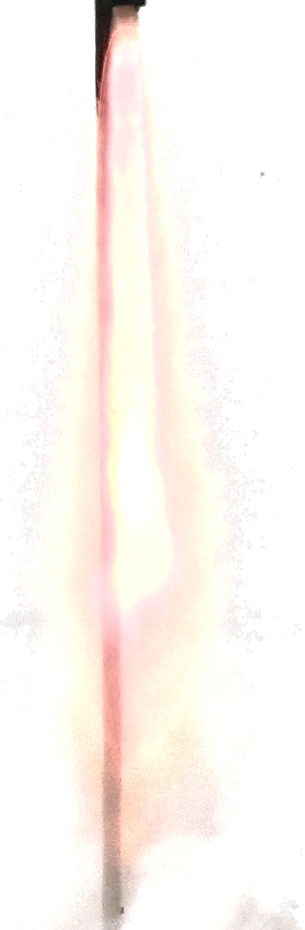
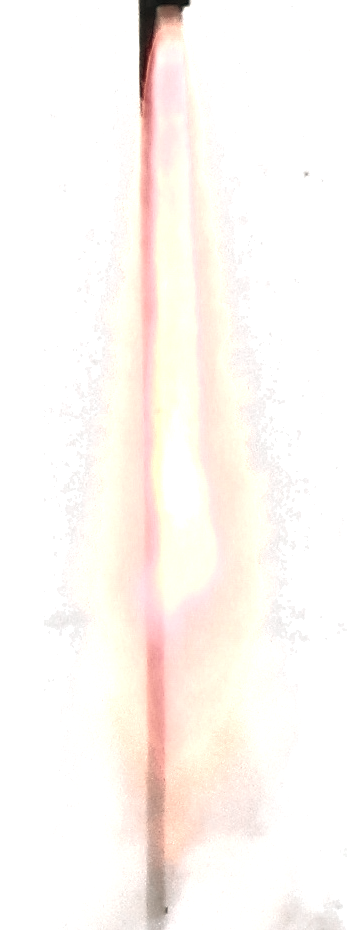
One heading, a centred exhaust, and no flash on load
Four small things, three of which were real bugs.

The course title appeared twice — once in the hero's final frame and again a
screen below at the top of the track. There is now one: the heading lives in
the hero, the launch lands on it, and the module list starts immediately under
it. The track's own intro and its top padding are gone, which also removes the
last stretch of empty scrolling before the modules.

The exhaust was visibly off the vehicle's axis. The airframe and the plume were
matted from different crops of the source photograph, so their centres of mass
sat 27px apart; drawn at the same pad position the fire hung to one side and the
liftoff read as smeared. Sprites are now recentred on their own alpha centroid
in the pipeline, so "image centre" means "vehicle axis" for all of them, and the
hero reads the airframe's width from the asset rather than a constant that
drifts whenever the matte changes.

The flash on load was the scene painting before it had been measured: the plate
at its natural 2560px and the airframe at 1295px tall, both in the top-left
corner, for one frame. The scene is now hidden until the first paint has run.

The readability scrim was painted over the wash-to-paper and never faded, which
left the finished white frame tinted grey. It now clears with the rest of the
dark-plate furniture.

Type and colour move closer to rocketrychallenge.org: body is Nunito Sans, the
[…]

diff --git a/components/hero/Hero.tsx b/components/hero/Hero.tsx
@@ -52,6 +52,7 @@ export function Hero() {
   const trailRef = useRef<HTMLDivElement>(null);
   const blurRef = useRef<SVGFEGaussianBlurElement>(null);
   const handoffRef = useRef<HTMLDivElement>(null);
+  const scrimRef = useRef<HTMLDivElement>(null);
 
   const navRef = useRef<HTMLElement>(null);
   const copyRef = useRef<HTMLDivElement>(null);
@@ -147,8 +148,14 @@ export function Hero() {
     if (rocket) {
       const h = L.rocketH * s.rocketScale;
       const y = L.padY - travelPx(s.travel) - h;
+      // Width from the asset itself: the sprite is centred on the vehicle's
+      // axis, so half its width is the offset that puts that axis on the pad.
+      const aspect =
+        rocket.naturalWidth && rocket.naturalHeight
+          ? rocket.naturalWidth / rocket.naturalHeight
+          : 0.136;
       rocket.style.height = `${h}px`;
-      rocket.style.transform = `translate3d(${(L.padX - (h * 0.128) / 2).toFixed(1)}px, ${y.toFixed(1)}px, 0)`;
+      rocket.style.transform = `translate3d(${(L.padX - (h * aspect) / 2).toFixed(1)}px, ${y.toFixed(1)}px, 0)`;
       rocket.style.opacity = String(s.rocketFade);
       // Y-only blur; the filter is only mounted while it is actually doing work
       rocket.style.filter = s.rocketBlur > 0.5 ? "url(#arc-vblur)" : "none";
@@ -166,6 +173,11 @@ export function Hero() {
     // --- brightening into the course ----------------------------------------
     if (gradeRef.current) {
       gradeRef.current.style.opacity = String(s.washout);
+    }
+    // The scrim exists to hold white type over a bright sky. It is painted over
+    // the wash, so leaving it up tinted the finished paper frame grey.
+    if (scrimRef.current) {
+      scrimRef.current.style.opacity = String(s.uiFade);
     }
     if (handoffRef.current) {
       handoffRef.current.style.opacity = String(s.handoff);
@@ -206,6 +218,13 @@ export function Hero() {
       tel.style.opacity = String((0.55 + 0.45 * Math.min(1, s.p * 6)) * s.uiFade);
       const armed = s.p >= 0.035 && s.p < 0.16;
       tel.dataset.armed = armed ? "true" : "false";
+    }
+
+    // First paint only happens once the layout is known; before that the plate
+    // would render at its natural 2560px and the airframe at 1295px tall, both
+    // pinned to the top-left corner, for a frame. That was the flash on load.
+    if (sectionRef.current && sectionRef.current.dataset.ready !== "true") {
+      sectionRef.current.dataset.ready = "true";
     }
 
     const ind = indicatorRef.current;
@@ -286,14 +305,14 @@ export function Hero() {
             clearing, so the launch never resolves to an empty screen. */}
         <div className="hero__handoff" ref={handoffRef}>
           <p className="hero__handoffEyebrow">02 / The course</p>
-          <p className="hero__handoffTitle">
+          <h2 className="hero__handoffTitle">
             Rocketry modules for students
             <br />
             new to rocketry.
-          </p>
+          </h2>
         </div>
         <div className="hero__trail" ref={trailRef} aria-hidden="true" />
-        <div className="hero__scrim" aria-hidden="true" />
+        <div className="hero__scrim" ref={scrimRef} aria-hidden="true" />
 
         <HeroNav ref={navRef} />
         <HeroCopy

diff --git a/app/hero.css b/app/hero.css
@@ -13,7 +13,12 @@
 /* -------------------------------------------------------------------- hero */
 .hero {
   position: relative;
-  height: 108vh; /* the scroll budget the launch is scrubbed across */
+  /*
+   * 28vh of scrub — roughly two turns of a wheel for the whole launch. Shorter
+   * than this (it was 8vh) and a single notch skips the entire sequence, which
+   * reads as a glitch rather than as speed.
+   */
+  height: 128vh;
 }
 
 .hero__pin {
@@ -28,6 +33,15 @@
   position: absolute;
   inset: 0;
   will-change: transform;
+  /* The plate and airframe are sized and placed in JavaScript. Until that has
+     run they would paint at their natural size in the top-left corner, which
+     is the flash that used to happen on load. */
+  opacity: 0;
+}
+
+.hero[data-ready="true"] .hero__scene {
+  opacity: 1;
+  transition: opacity 0.24s var(--ease-arc);
 }
 
 .hero__plate {
@@ -95,7 +109,7 @@
 .hero__handoff {
   position: absolute;
   left: 6.5vw;
-  top: 34vh;
+  top: 26vh;
   z-index: 5;
   opacity: 0;
   pointer-events: none;
@@ -393,7 +407,7 @@
 /* ------------------------------------------------------------ responsive */
 @media (max-width: 767px) {
   .hero {
-    height: 104vh;
+    height: 124vh;
   }
 
   .hero__copy {
@@ -516,7 +530,7 @@
   max-width: 46ch;
   font-size: 1rem;
   line-height: 1.6;
-  color: var(--color-sky-800);
+  color: var(--color-read);
 }
 
 .gate__actions {
@@ -602,7 +616,7 @@
 .track {
   position: relative;
   background: var(--color-arc-white);
-  padding: 13vh 6.5vw 10vh;
+  padding: 0 6.5vw 10vh;
 }
 
 .track__eyebrow {
@@ -630,11 +644,11 @@
   max-width: 56ch;
   font-size: 1.05rem;
   line-height: 1.6;
-  color: var(--color-sky-800);
+  color: var(--color-read);
 }
 
 .track__body {
-  margin-top: 7vh;
+  margin-top: 0;
 }
 
 /* --- the blow-up: retention, not the point --------------------------- */
@@ -650,7 +664,7 @@
   display: flex;
   align-items: center;
   gap: 36px;
-  padding: 26px 0 22px;
+  padding: 30px 0 22px;
   margin-bottom: 3vh;
   background: var(--color-arc-white);
   border-bottom: 1px solid var(--color-mist-500);
@@ -716,7 +730,7 @@
   margin: 3px 0 0;
   font-size: 0.88rem;
   line-height: 1.45;
-  color: var(--color-sky-800);
+  color: var(--color-read-dim);
 }
 
 /* --- the modules ------------------------------------------------------ */
@@ -802,7 +816,7 @@
   margin-top: 5px;
   font-size: 0.92rem;
   line-height: 1.5;
-  color: var(--color-sky-800);
+  color: var(--color-read-dim);
   max-width: 52ch;
 }
 

diff --git a/app/layout.tsx b/app/layout.tsx
@@ -1,5 +1,5 @@
 import type { Metadata, Viewport } from "next";
-import { Jost, Hanken_Grotesk, IBM_Plex_Mono } from "next/font/google";
+import { Jost, Nunito_Sans, IBM_Plex_Mono } from "next/font/google";
 import "./globals.css";
 // Imported here rather than @import-ed from globals.css so the dev server
 // watches it directly and hot-reloads edits.
@@ -8,8 +8,11 @@ import { PwaRegister } from "@/components/PwaRegister";
 import { AccountSync } from "@/components/account/AccountSync";
 
 /*
- * ARC sets headings in Futura PT and body in Museo Sans. Jost is an open Futura
- * revival; Hanken Grotesk covers Museo Sans. Plex Mono is instrumentation only.
+ * ARC sets headings in Futura PT and body in Museo Sans (Adobe Typekit).
+ * Jost is an open Futura revival. Nunito Sans is the closest open face to Museo
+ * Sans — same geometric-humanist build and low stroke contrast — and replaces
+ * Hanken Grotesk, which ran colder and narrower than the real thing.
+ * Plex Mono is instrumentation only; the brand has no mono.
  */
 const jost = Jost({
   subsets: ["latin"],
@@ -18,10 +21,10 @@ const jost = Jost({
   display: "swap",
 });
 
-const hanken = Hanken_Grotesk({
+const nunitoSans = Nunito_Sans({
   subsets: ["latin"],
-  weight: ["400", "500", "600", "700", "800"],
-  variable: "--font-hanken",
+  weight: ["400", "600", "700", "800"],
+  variable: "--font-museo",
   display: "swap",
 });
 
@@ -60,7 +63,7 @@ export default function RootLayout({
   return (
     <html
       lang="en"
-      className={`h-full ${jost.variable} ${hanken.variable} ${plexMono.variable}`}
+      className={`h-full ${jost.variable} ${nunitoSans.variable} ${plexMono.variable}`}
     >
       <body className="min-h-full flex flex-col">
         <PwaRegister />

diff --git a/components/course/ModuleTrack.tsx b/components/course/ModuleTrack.tsx
@@ -61,21 +61,11 @@ export function ModuleTrack() {
     return () => io.disconnect();
   }, []);
 
+  // The heading for this section lives in the hero's final frame (Hero.tsx,
+  // .hero__handoff) so the launch lands directly on it. Repeating it here
+  // showed the same title twice, a screen apart.
   return (
     <section className="track" id="course" aria-label="The course">
-      <div className="track__intro">
-        <p className="track__eyebrow">02 / The course</p>
-        <h2 className="track__title">
-          Rocketry modules for students
-          <br />
-          new to rocketry.
-        </h2>
-        <p className="track__lede">
-          Thirteen of them, from your first launch rail to a qualifying flight.
-          Read it, take the quiz, and finish another part of the rocket.
-        </p>
-      </div>
-
       <div className="track__body">
         {/* A blow-up, read left to right like an engineering drawing: nose at
             the left, fin can at the right, gaps where the joints are. Sticky,

diff --git a/app/globals.css b/app/globals.css
@@ -72,7 +72,7 @@
    * reason to use it here than brand-matching alone.
    */
   --font-heading: var(--font-jost), "Futura PT", Futura, Arial, sans-serif;
-  --font-body: var(--font-hanken), "Museo Sans", "Segoe UI", Arial, sans-serif;
+  --font-body: var(--font-museo), "Museo Sans", "Segoe UI", Arial, sans-serif;
   /* Instrumentation only. The brand has no mono; telemetry needs one. */
   --font-mono: var(--font-plex-mono), ui-monospace, Menlo, monospace;
 

diff --git a/scripts/mat_assets.py b/scripts/mat_assets.py
@@ -53,6 +53,32 @@ def sky_model(a):
     return sm[:H]
 
 
+def recentre(img):
+    """
+    Shift a sprite so its alpha centroid sits on the image's centre line.
+
+    The airframe and the plume were matted from different crops of the source
+    frame, so their centres of mass sat 27px apart. Drawn at the same pad
+    position that put the exhaust visibly off the vehicle's axis — the launch
+    read as smeared rather than symmetric. Centring each sprite on its own mass
+    means "image centre" is the vehicle axis for all of them.
+    """
+    a = np.asarray(img).astype(np.float32)
+    alpha = a[..., 3]
+    if alpha.sum() <= 0:
+        return img
+    xs = np.arange(a.shape[1])
+    cx = float((xs * alpha.sum(axis=0)).sum() / alpha.sum())
+    shift = int(round(a.shape[1] / 2 - cx))
+    if shift == 0:
+        return img
+    pad = abs(shift) * 2
+    out = np.zeros((a.shape[0], a.shape[1] + pad, 4), dtype=np.float32)
+    x0 = pad // 2 + shift
+    out[:, x0:x0 + a.shape[1], :] = a
+    return Image.fromarray(out.astype(np.uint8), "RGBA")
+
+
 def unmix(obs, bg, alpha):
     """Recover foreground colour given observed = a*F + (1-a)*BG."""
     a = np.clip(alpha, 1e-3, 1.0)[..., None]
@@ -87,7 +113,7 @@ def mat_rocket(a, sky):
     rgb = g * 255
 
     out = np.dstack([rgb, alpha * 255]).astype(np.uint8)
-    Image.fromarray(out, "RGBA").save(OUT / "rocket.png")
+    recentre(Image.fromarray(out, "RGBA")).save(OUT / "rocket.png")
     return alpha
 
 
@@ -117,7 +143,7 @@ def mat_flame(a, sky):
     g = g * (1 - core) + np.clip(g + 0.42, 0, 1.25) * core
     rgb = np.clip(g, 0, 1) * 255
     out = np.dstack([rgb, alpha * 255]).astype(np.uint8)
-    Image.fromarray(out, "RGBA").save(OUT / "flame.png")
+    recentre(Image.fromarray(out, "RGBA")).save(OUT / "flame.png")
 
 
 # ------------------------------------------------------------------- smoke
@@ -444,7 +470,6 @@ def main():
     mat_rocket(a, sky)
     mat_flame(a, sky)
     n = mat_smoke(a)
-    sections = slice_sections()
 
     plate = clean_plate(a, sky)
     Image.fromarray(plate.astype(np.uint8)).save(WORK / "plate-clean.jpg", quality=92)
@@ -464,7 +489,7 @@ def main():
     img.resize((2560, int(2560 * ch / W)), Image.LANCZOS).save(OUT / "plate.jpg", quality=88)
     img.resize((1280, int(1280 * ch / W)), Image.LANCZOS).save(OUT / "plate-sm.jpg", quality=86)
 
-    print(f"plate {img.size}  horizon_frac={(TREELINE_Y - top) / ch:.3f}  smoke_tiles={n}  sections={sections}")
+    print(f"plate {img.size}  horizon_frac={(TREELINE_Y - top) / ch:.3f}  smoke_tiles={n}")
 
 
 if __name__ == "__main__":
